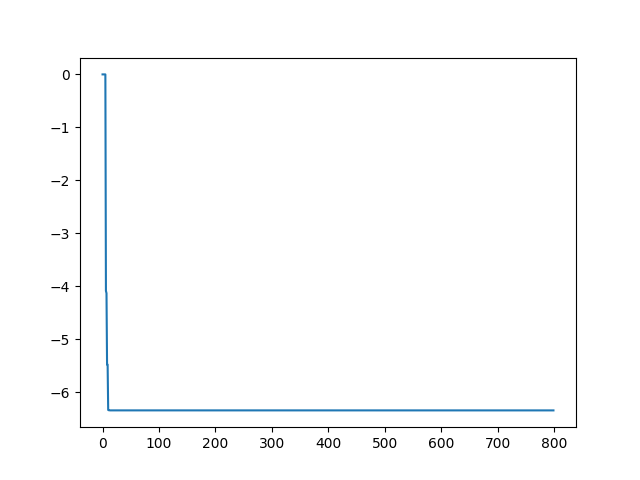
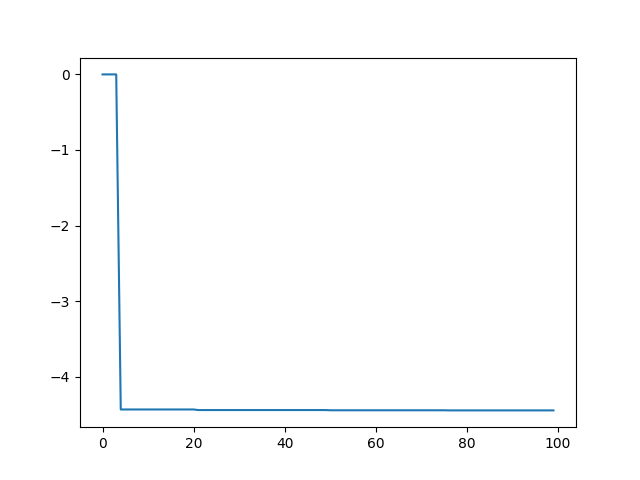
update Q1 ~ Q3 anwser

diff --git a/Q1_test.py b/Q1_test.py
@@ -20,16 +20,16 @@ from utils.geo import *
 # ====================================================
 
 # Q2
-#  Vx, drop, bomb: [140.           0.33567918   0.33562715]
+# best_x is  [-70.40359495   0.           1.71457692] best_y is [-4.44587076676170]
 
 # FY1无人机飞行速度 (m/s) - 题目1中为120，题目2中需要优化在[70,140]范围内
-TEST_FY1_SPEED = 140
+TEST_FY1_SPEED = -70.40359495
 
 # 受领任务后投放烟幕弹的时间 (s) - 题目1中为1.5秒，题目2中需要优化
-TEST_LAUNCH_TIME = 0.33567918
+TEST_LAUNCH_TIME = 0
 
 # 投放后到起爆的时间间隔 (s) - 题目1中为3.6秒，题目2中需要优化
-TEST_IGNITE_INTERVAL = 0.33562715
+TEST_IGNITE_INTERVAL = 1.71457692
 
 print(f"=== 当前测试参数 ===")
 print(f"FY1飞行速度: {TEST_FY1_SPEED} m/s")
@@ -74,12 +74,14 @@ bomb_position = calculate_parabolic_trajectory(
 print(f"bomb_position: {bomb_position}")
 
 # ================== 几何求解：线段与球体相交判断 ==================
-# 问题描述：判断从原点O(0,0,0)到导弹位置Mt的线段是否与烟幕球体相交
+# 问题描述：判断从真目标(0,200,0)到导弹位置Mt的线段是否与烟幕球体相交
 #
 # 数学模型：
-# 1. 线段参数方程：P(s) = s * Mt，其中 s ∈ [0,1]
+# 1. 线段参数方程：P(s) = T + s * (Mt - T)，其中 s ∈ [0,1], T为真目标位置
 # 2. 球体：以St为球心，R为半径
 # 3. 求解：线段P(s)与球体的相交时间区间
+
+true_target = sp.Matrix(TRUE_TARGET_CENTER.copy())  # 真目标位置向量
 
 t = sp.Symbol("t", real=True)
 t_domain = Interval(0, 20, left_open=True)
@@ -95,93 +97,90 @@ Mx, My, Mz = (
 Sx, Sy, Sz = bomb_position[0], bomb_position[1], bomb_position[2] - SMOKE_SINK_SPEED * t
 
 # 位置向量
-Mxv = sp.Matrix([Mx, My, Mz])  # 导弹位置向量
-Sv = sp.Matrix([Sx, Sy, Sz])  # 烟幕球心位置向量
+Mt_vec = sp.Matrix([Mx, My, Mz])  # 导弹位置向量
+St_vec = sp.Matrix([Sx, Sy, Sz])  # 烟幕球心位置向量
 
-# print(f"Mxv: {Mxv}, Sv: {Sv}")
+print(f"True target: {true_target}")
+print(f"Missile position vector: Mt(t) = {Mt_vec}")
+print(f"Smoke center vector: St(t) = {St_vec}")
 
 
 # ================== 线段与球体相交的数学公式 ==================
-# 设线段为 P(s) = s * Mt，s ∈ [0,1]
-# 球心到线段的最短距离平方 = |St - proj(St, Mt)|²
-# 其中 proj(St, Mt) = (St·Mt / Mt·Mt) * Mt
+# 线段参数方程：P(s) = T + s * (Mt - T) = T + s * D，其中：
+# T = true_target（真目标）
+# D = Mt - T（方向向量，从真目标指向导弹）
+# E = T - St（真目标到球心向量）
+#
+# 相交条件：|P(s) - St|² ≤ R²
+# 即：|T + s*D - St|² = |E + s*D|² ≤ R²
+# 展开：s²|D|² + 2s(E·D) + |E|² ≤ R²
 
-Mt_pow2 = (Mxv.dot(Mxv)).simplify()  # |Mt|² - 导弹位置向量模长平方
-StMt = (Sv.dot(Mxv)).simplify()  # St·Mt - 烟幕球心与导弹位置的点积
-St_pow2 = (Sv.dot(Sv)).simplify()  # |St|² - 烟幕球心位置向量模长平方
-print(f"Mt_pow2: {Mt_pow2}, StMt: {StMt}, St_pow2: {St_pow2}")
+D_vec = Mt_vec - true_target  # 方向向量（从真目标指向导弹）
+E_vec = true_target - St_vec  # 真目标到球心向量
+
+# 计算二次不等式系数
+D_dot_D = D_vec.dot(D_vec).simplify()  # |D|²
+E_dot_D = E_vec.dot(D_vec).simplify()  # E·D
+E_dot_E = E_vec.dot(E_vec).simplify()  # |E|²
+
+print(f"\n线段与球体相交计算:")
+print(f"|D|² = {D_dot_D}")
+print(f"E·D = {E_dot_D}")
+print(f"|E|² = {E_dot_E}")
 
 R = SMOKE_EFFECTIVE_RADIUS  # 烟幕有效遮蔽半径
 
-# 离路径距离
-d = Sv.cross(Mxv).norm() / Mxv.norm()
+# 二次不等式：s²|D|² + 2s(E·D) + |E|² - R² ≤ 0
+# 设 a = |D|², b = 2(E·D), c = |E|² - R²
+a_coeff = D_dot_D
+b_coeff = 2 * E_dot_D
+c_coeff = E_dot_E - R**2
 
-# 线段上距离球心最近的点的参数
-u = StMt / Mt_pow2  # 如果u∈[0,1]，则最近点在线段上；否则最近点是线段端点
+print(f"\n二次不等式系数:")
+print(f"a = {a_coeff}")
+print(f"b = {b_coeff}")
+print(f"c = {c_coeff}")
 
-# 提取系数并转换为精确的有理数表示
-Mt_pow2_coeffs = sp.Poly(Mt_pow2, t).all_coeffs()
-StMt_coeffs = sp.Poly(StMt, t).all_coeffs()
+# 求解二次不等式的判别式
+discriminant = b_coeff**2 - 4 * a_coeff * c_coeff
+print(f"判别式 = {discriminant.simplify()}")
 
-# 重新构建精确的表达式
-Mt_pow2_exact = sum(
-    Rational(str(float(coeff))) * t ** (len(Mt_pow2_coeffs) - 1 - i)
-    for i, coeff in enumerate(Mt_pow2_coeffs)
-)
-StMt_exact = sum(
-    Rational(str(float(coeff))) * t ** (len(StMt_coeffs) - 1 - i)
-    for i, coeff in enumerate(StMt_coeffs)
-)
+# 当判别式 ≥ 0 且 a > 0 时，不等式有解
+# 解为：s ∈ [(-b - √Δ)/(2a), (-b + √Δ)/(2a)] ∩ [0,1]
 
-u = StMt_exact / Mt_pow2_exact  # 使用精确表达式
+s = sp.Symbol("s", real=True)
+quadratic_ineq = a_coeff * s**2 + b_coeff * s + c_coeff <= 0
 
-print(f"u: {u.simplify()}")
+# 在参数域[0,1]内求解二次不等式
+s_domain = Interval(0, 1)
+s_solutions = sp.solveset(quadratic_ineq, s, domain=s_domain)
 
-# ================== 相交条件分析 ==================
-# 线段与球体相交需要满足以下任一条件：
-u_cond1 = u >= 0
-u_cond2 = u <= 1
+print(f"\n参数s的解集（s ∈ [0,1]）: {s_solutions}")
 
-# 条件1：线段投影相交（最常见情况）
-# 要求：u ∈ [0,1] 且 线段到球心的最短距离 ≤ R
-proj_cond = St_pow2 - (StMt**2 / Mt_pow2) <= R**2
+# 对于每个时刻t，检查是否存在s使得线段与球相交
+# 即：存在s ∈ [0,1]使得二次不等式成立
+intersection_condition = discriminant >= 0
 
-# 条件2：u<0, 起点（原点）在球内，不合理于是不考虑
-# origin_cond = c <= R**2  # |St|² ≤ R²，即原点到球心距离 ≤ R
+# 求解相交时间区间
+intersection_intervals = sp.solveset(intersection_condition, t, domain=t_domain)
 
-# 条件3：u>1, 终点（导弹位置）在球内
-M_cond = (Sv - Mxv).dot(Sv - Mxv) <= R**2  # |St - Mt|² ≤ R²
+print(f"\n相交时间区间求解:")
+print(f"相交条件（判别式≥0）: {intersection_condition}")
+print(f"相交时间区间: {intersection_intervals}")
 
-# ================== 求解时间区间 ==================
-
-# 求解几何相交条件
-u_intervals1 = sp.solveset(u_cond1, t, domain=t_domain)
-u_intervals2 = sp.solveset(u_cond2, t, domain=t_domain)
-
-proj_intervals = sp.solveset(
-    proj_cond, t, domain=u_intervals1 & u_intervals2
-)  # 线段与球相交
-# origin_intervals = sp.solveset(origin_cond, t, domain=t_domain)  # 原点在球内
-M_intervals = sp.solveset(M_cond, t, domain=t_domain)  # 导弹在球内
-
-
-# ================== 求最终相交时间区间 ==================
-# 线段与球体相交的充要条件是以下任一条件成立：
-# 1. (u∈[0,1] 且 判别式≥0) 或 2. 原点在球内 或 3. 导弹在球内
-
-# 输出各个条件的求解结果
-print("\n各条件的时间区间求解结果:")
-print("u >= 0:", u_intervals1)
-print("u <= 1:", simplify(u_intervals2))
-print("u ∈ [0,1]:", simplify(u_intervals1 & u_intervals2))
-print("情况1：线段与球相交:", simplify(proj_intervals))
-# print("情况2：原点在球内:", origin_intervals)
-print("情况3：导弹在球内:", simplify(M_intervals))
-final_mask_interval = simplify(proj_intervals | M_intervals)
-final_mask_duration = simplify(final_mask_interval.measure)
-
-print("最终相交时间区间:", final_mask_interval)
-print("最终相交时间区间长度:", final_mask_duration)
+# 计算有效遮蔽时长
+if intersection_intervals != sp.S.EmptySet and intersection_intervals.measure != 0:
+    mask_duration = intersection_intervals.measure
+    final_mask_interval = intersection_intervals
+    final_mask_duration = mask_duration
+    print(f"\n最终结果:")
+    print(f"有效遮蔽时间区间: {intersection_intervals}")
+    print(f"有效遮蔽时长: {float(mask_duration):.6f} 秒")
+else:
+    final_mask_interval = sp.S.EmptySet
+    final_mask_duration = 0
+    print(f"\n最终结果:")
+    print(f"无有效遮蔽时间")
 
 # ================== 测试结果总结 ==================
 print("\n" + "=" * 60)
@@ -190,7 +189,10 @@ print("=" * 60)
 print(f"FY1飞行速度: {TEST_FY1_SPEED} m/s")
 print(f"投放时间: {TEST_LAUNCH_TIME} s")
 print(f"起爆间隔: {TEST_IGNITE_INTERVAL} s")
-print(f"烟幕有效遮蔽时长: {float(final_mask_duration):.6f} 秒")
+if final_mask_duration > 0:
+    print(f"烟幕有效遮蔽时长: {float(final_mask_duration):.6f} 秒")
+else:
+    print("烟幕有效遮蔽时长: 0.000000 秒")
 print("=" * 60)
 
 # result

diff --git a/Q3.py b/Q3.py
@@ -3,7 +3,7 @@ from sko.tools import set_run_mode
 import numpy as np
 import math
 import matplotlib.pyplot as plt
-from utils.Q3cal_mask_time import Q3_constraint_ueq, Q3_cal_mask_time_optimized
+from utils.Q3cal_mask_time import Q3_constraint_ueq, Q3_cal_mask_time
 from utils.base import *
 from utils.geo import *
 
@@ -12,7 +12,7 @@ max_time = math.sqrt(sum(MISSILES_INITIAL["M1"]**2)) / MISSILE_SPEED
 print(f"max_time: {max_time}")
 
 def func(x):
-    return -Q3_cal_mask_time_optimized(x)
+    return -Q3_cal_mask_time(x)
 
 lb = [-140] + [0] * 6
 ub = [140] + [max_time] * 6
@@ -20,17 +20,25 @@ ub = [140] + [max_time] * 6
 ueq = (Q3_constraint_ueq,)
 # print(type(ueq))
 
+w = 0.9
+c = (1 - w) / 2
+
 set_run_mode(func, "multiprocessing")
-pso = PSO(func=func, n_dim=7, pop=90, max_iter=450, lb=lb, ub=ub, constraint_ueq=ueq, c1=1, c2=1, w=0.9)
+pso = PSO(func=func, n_dim=7, pop=90, max_iter=200, lb=lb, ub=ub, constraint_ueq=ueq, c1=c, c2=c, w=w, verbose=True)
 
 pso.run()
 print('best_x is ', pso.gbest_x, 'best_y is', pso.gbest_y)
 
+# print(type(pso.gbest_y_hist))
+# print(pso.gbest_y_hist)
 
-plt.plot(pso.gbest_y_hist)
+try:
+    plot_data = plot_data = [item[0] if isinstance(item, np.ndarray) else item for item in pso.gbest_y_hist]
+except:
+    plot_data = pso.gbest_y_hist
+plt.plot(plot_data)
+
 plt.savefig("run/Q3_loss.png")
 
-# best result
-#  Vx, drop1, bomb1, drop2, bomb2, drop3, bomb3: [-140.            2.54644717    4.86173911    0.            0.
-#     5.01433474    5.86561889]
-# 9.189296874999997
+# best_x is  [-1.39999941e+02  0.00000000e+00  7.98459982e-01  2.17994553e+00
+#   4.78722734e+00  0.00000000e+00  6.62879855e-03] best_y is [-8.92540866563213]

diff --git a/Q2.py b/Q2.py
@@ -21,7 +21,7 @@ ueq = (Q2_constraint_ueq,)
 # print(type(ueq))
 
 set_run_mode(func, "multiprocessing")
-pso = PSO(func=func, n_dim=3, pop=90, max_iter=800, lb=lb, ub=ub, constraint_ueq=ueq, c1=2, c2=2, w=0.3)
+pso = PSO(func=func, n_dim=3, pop=90, max_iter=200, lb=lb, ub=ub, constraint_ueq=ueq, c1=1, c2=1, w=0.9)
 pso.run()
 print(f" Vx, drop, bomb: {pso.gbest_x}")
 print(-pso.gbest_y.item())
@@ -29,7 +29,4 @@ print(-pso.gbest_y.item())
 plt.plot(pso.gbest_y_hist)
 plt.savefig("run/Q2_loss.png")
 
-# 最优结果
-# 参数： pop=90, max_iter=800, c1=2, c2=2, w=0.3
-#  Vx, drop, bomb: [140.           0.33567918   0.33562715]
-# 6.40046875
+# best_x is  [-70.40359495   0.           1.71457692] best_y is [-4.44587076676170]
